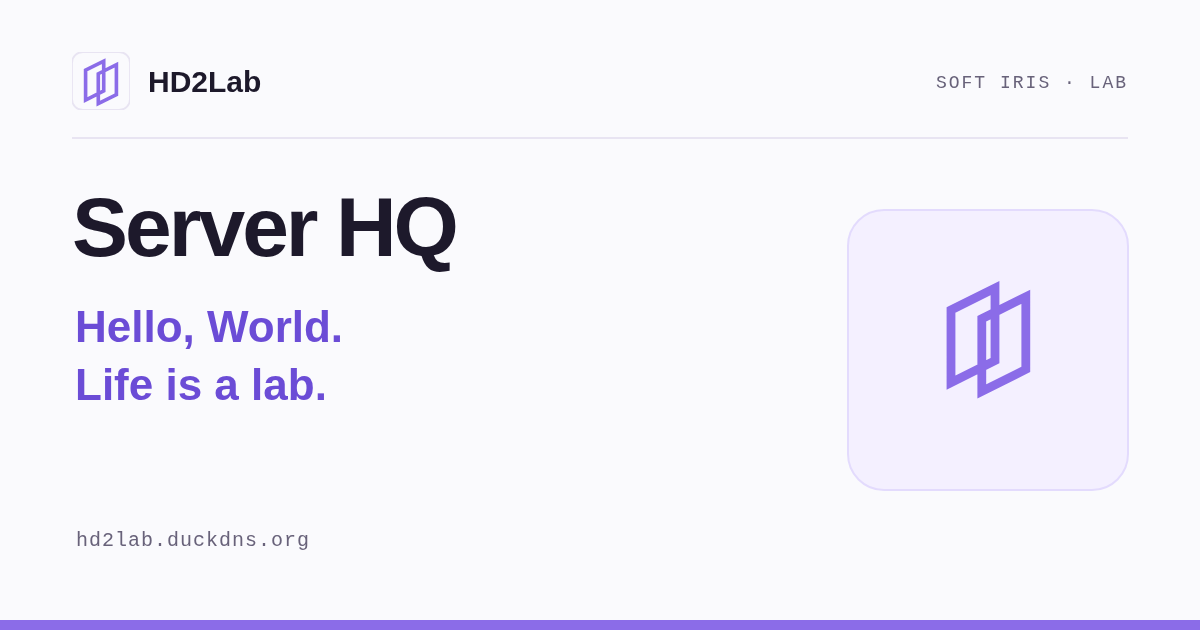
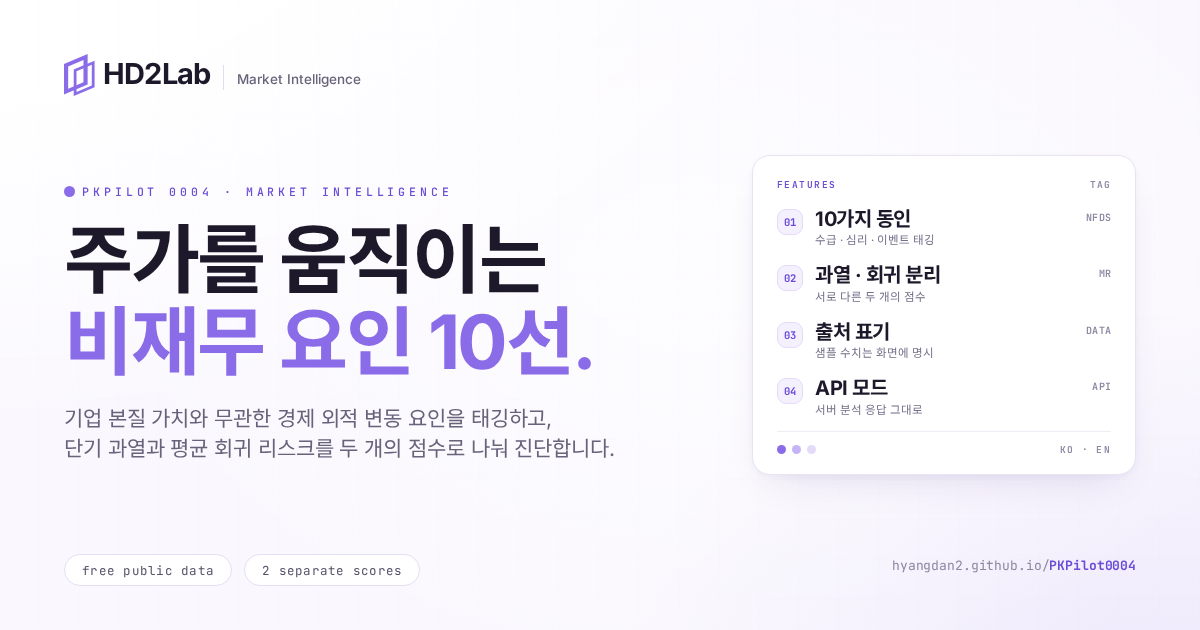
chore(og): share card in the HD2's Diary OG style (#3)
Rebuild og:image / twitter:image as the 1200x630 Diary-style card (Soft Iris wash, dual-skew mark, left title, right feature card) and bump the cache-busting query to ?v=20261121-og.

diff --git a/index.html b/index.html
@@ -29,8 +29,8 @@
   <meta property="og:title" content="HD2Lab | Market Intelligence" />
   <meta property="og:description" content="기업 본질 가치와 무관한 경제 외적 주가 변동 요인 10선 — 단기 과열(NFDS)과 평균 회귀 리스크를 분리 진단하는 무료 공개 데이터 대시보드." />
   <meta property="og:url" content="https://hyangdan2.github.io/PKPilot0004/" />
-  <meta property="og:image" content="https://hyangdan2.github.io/PKPilot0004/social-preview.png?v=20261120" />
-  <meta property="og:image:secure_url" content="https://hyangdan2.github.io/PKPilot0004/social-preview.png?v=20261120" />
+  <meta property="og:image" content="https://hyangdan2.github.io/PKPilot0004/social-preview.png?v=20261121-og" />
+  <meta property="og:image:secure_url" content="https://hyangdan2.github.io/PKPilot0004/social-preview.png?v=20261121-og" />
   <meta property="og:image:type" content="image/png" />
   <meta property="og:image:width" content="1200" />
   <meta property="og:image:height" content="630" />
@@ -40,7 +40,7 @@
   <meta name="twitter:card" content="summary_large_image" />
   <meta name="twitter:title" content="HD2Lab | Market Intelligence" />
   <meta name="twitter:description" content="기업 본질 가치와 무관한 경제 외적 주가 변동 요인 10선 — 단기 과열(NFDS)과 평균 회귀 리스크 분리 진단." />
-  <meta name="twitter:image" content="https://hyangdan2.github.io/PKPilot0004/social-preview.png?v=20261120" />
+  <meta name="twitter:image" content="https://hyangdan2.github.io/PKPilot0004/social-preview.png?v=20261121-og" />
 
   <!-- HD2Lab shared theme: applies the stored hd2-theme before first paint (no flash) -->
   <script>try{var h=localStorage.getItem('hd2-theme');document.documentElement.setAttribute('data-theme',h==='dark'?'dark':'light');}catch(e){document.documentElement.setAttribute('data-theme','light');}</script>
